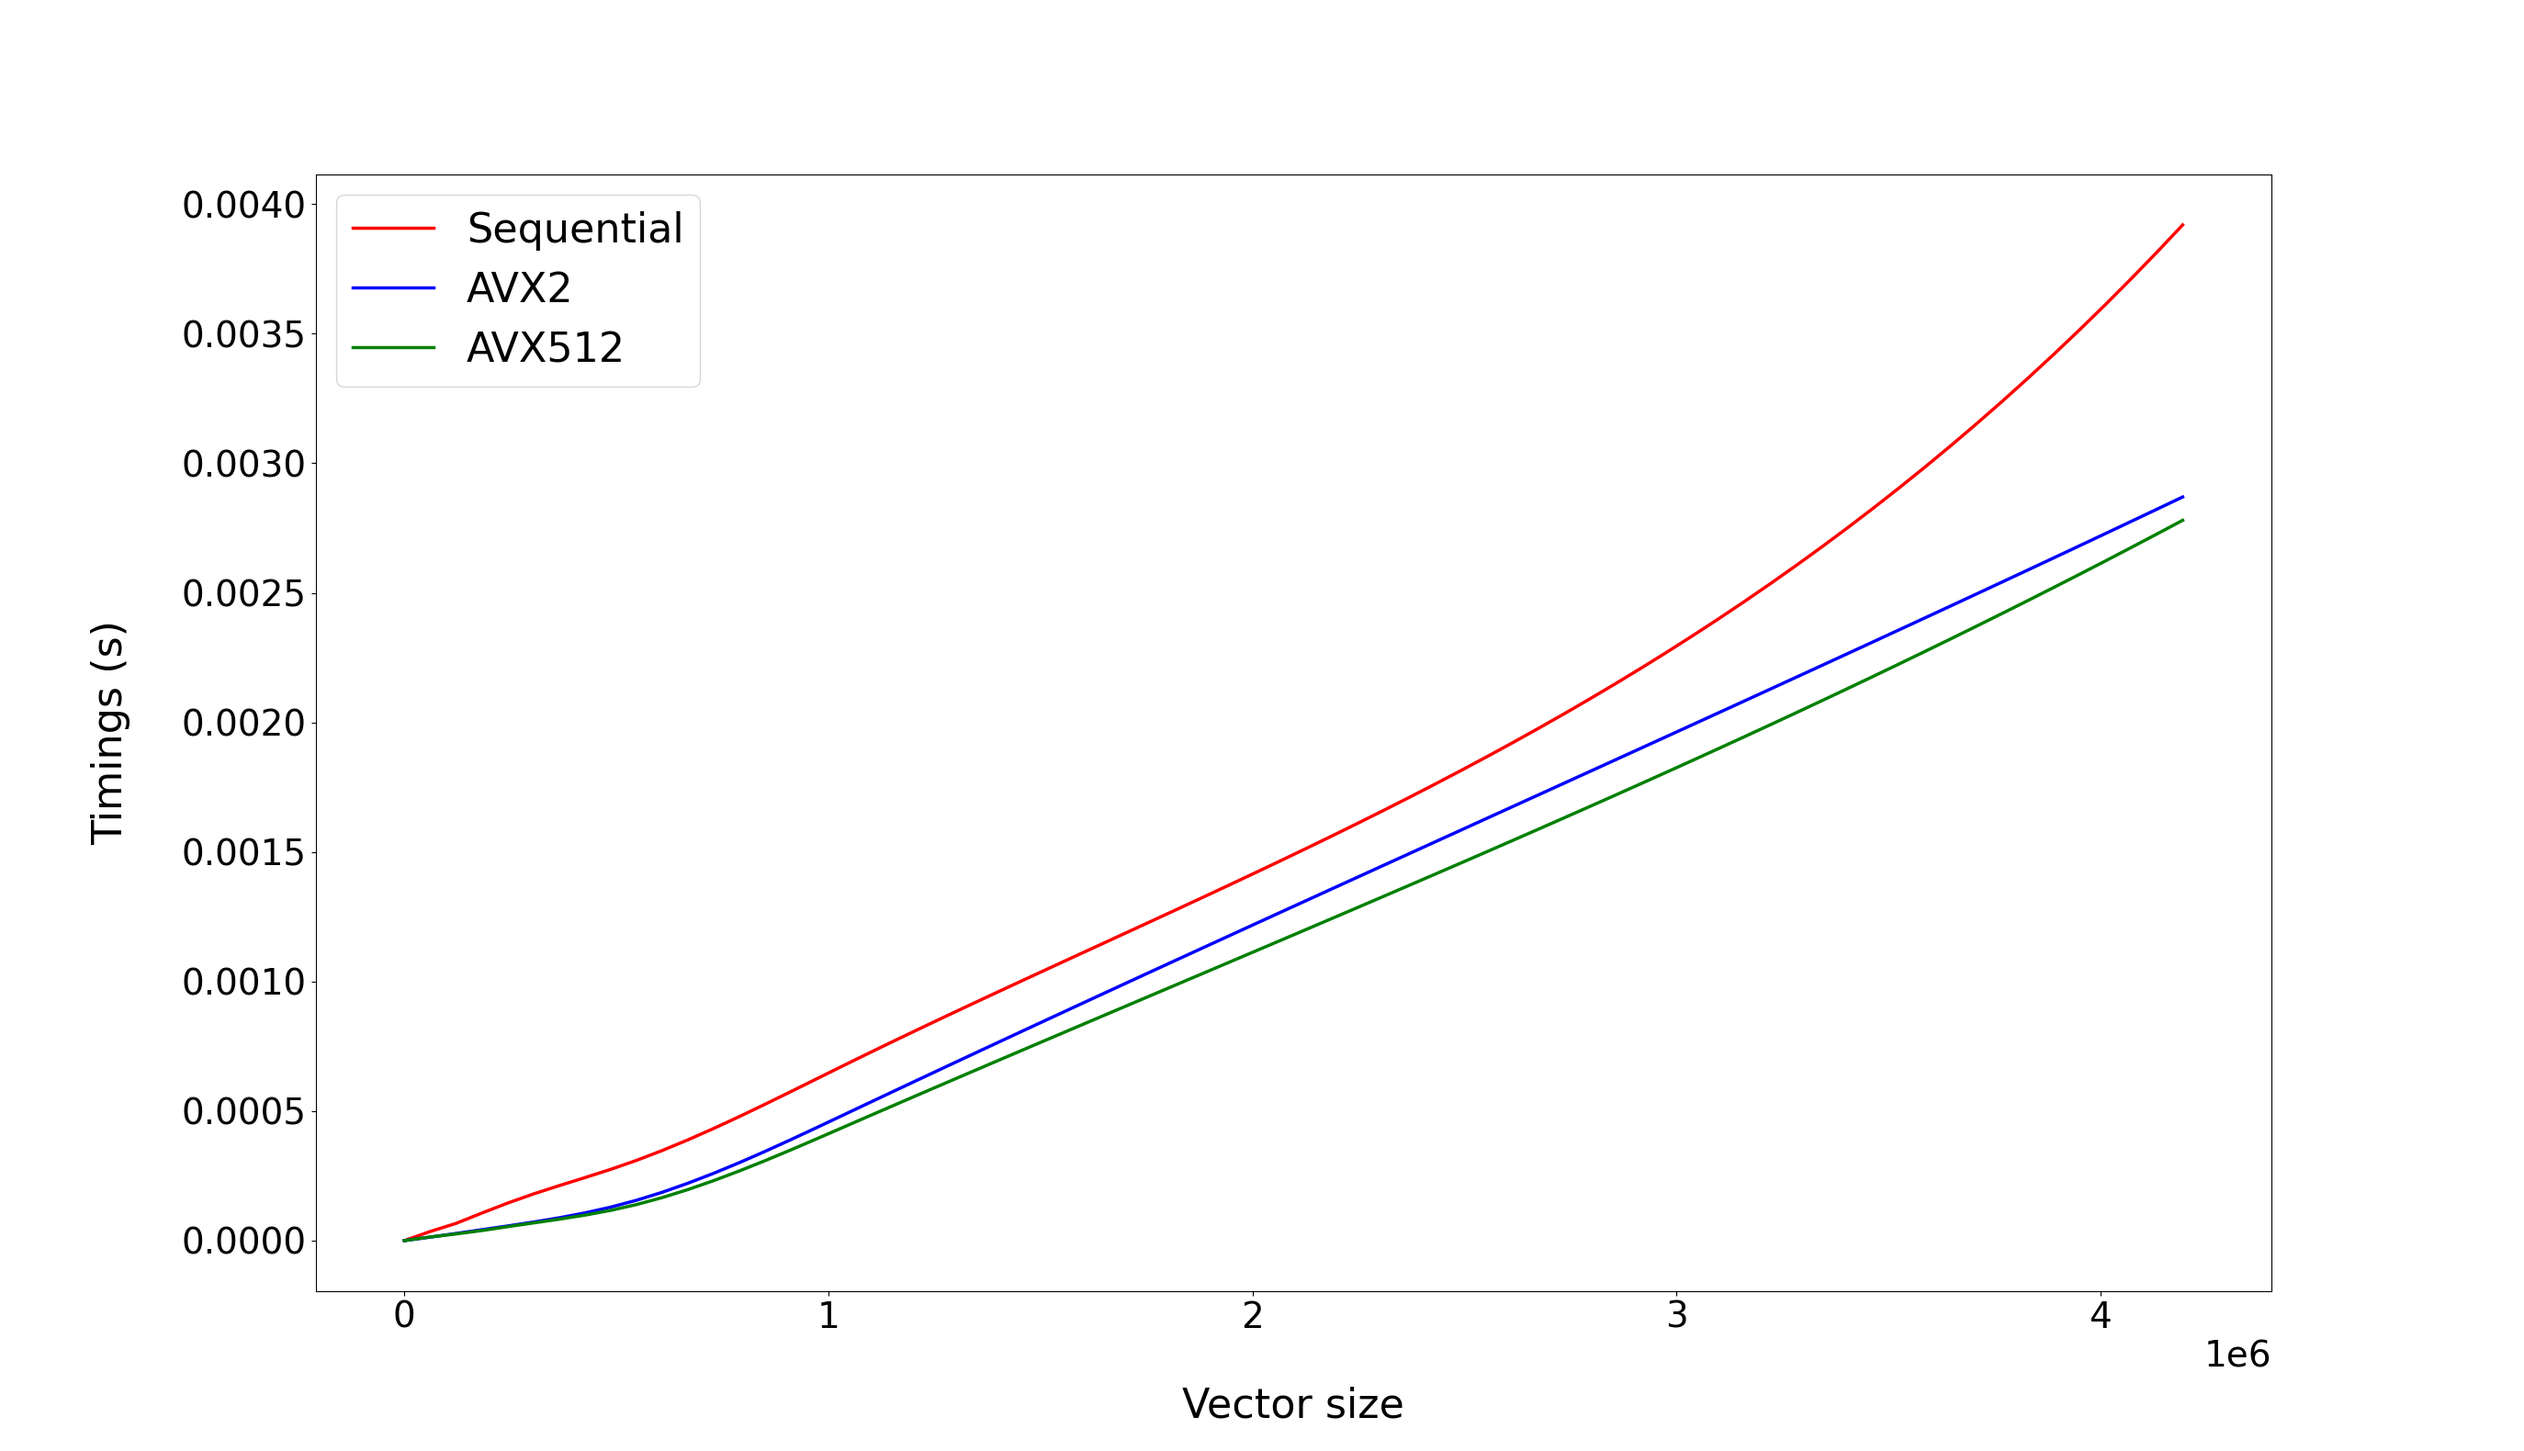
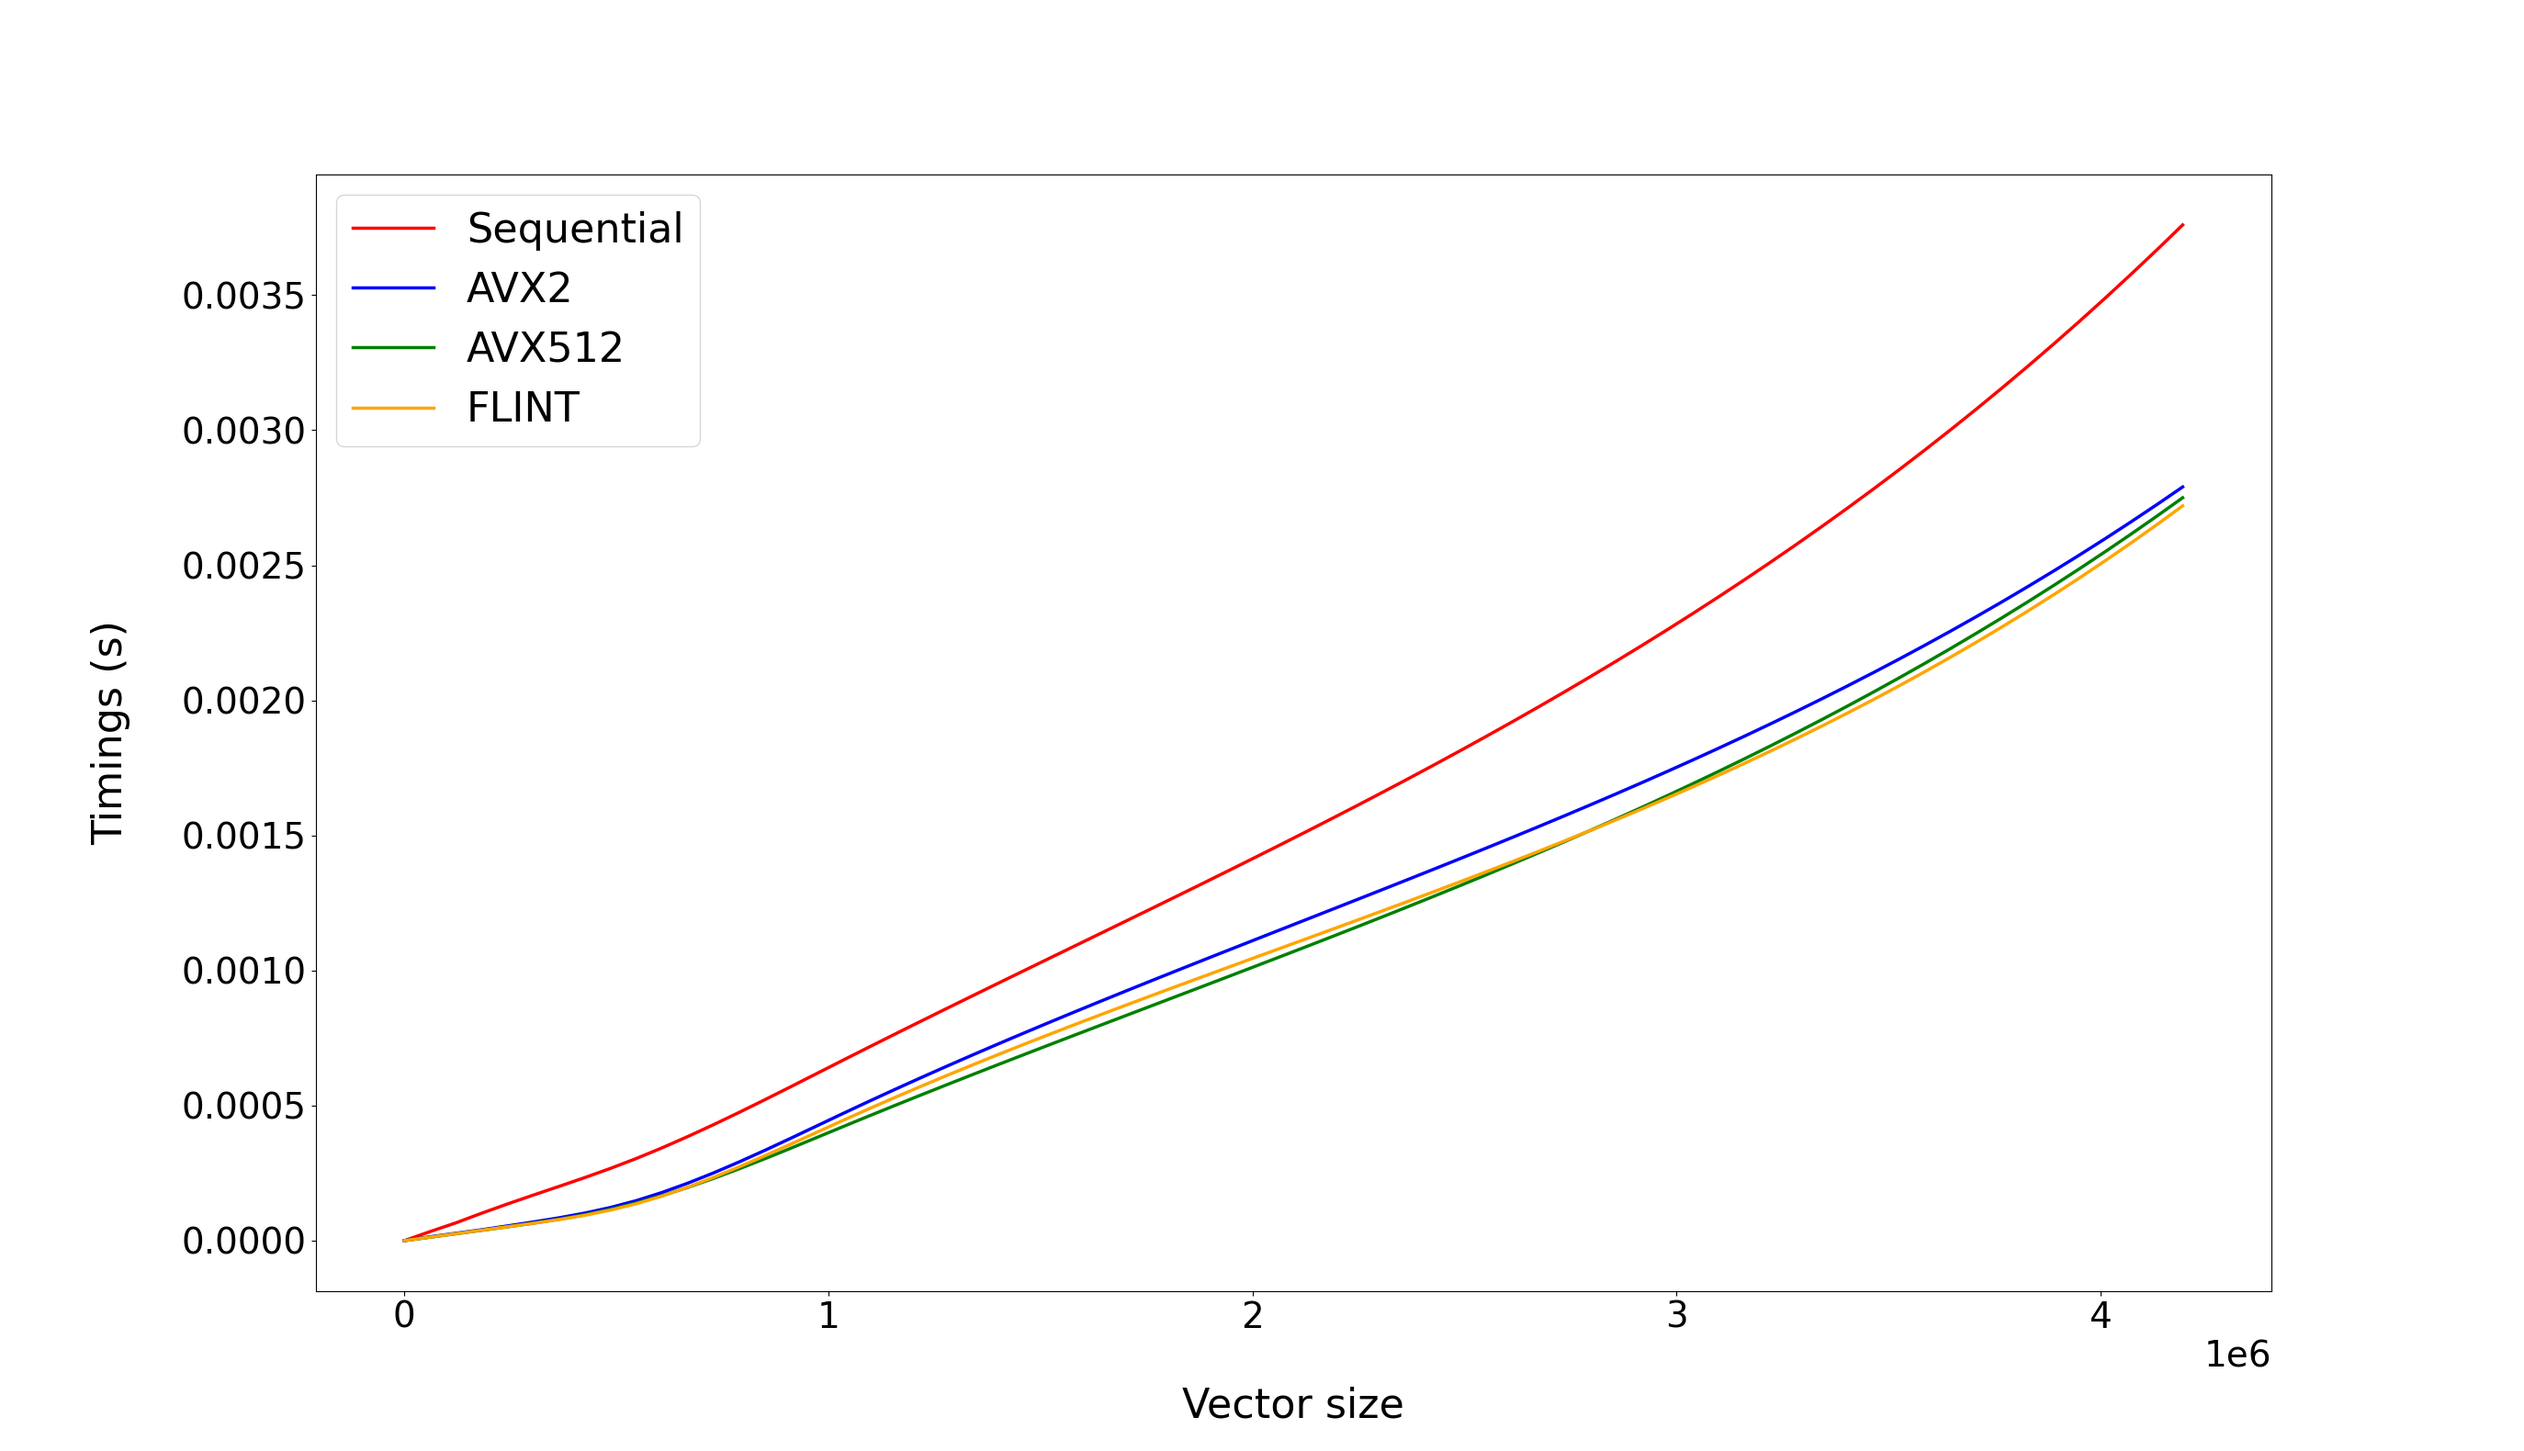
all timings table and plots

diff --git a/docs/report/report.tex b/docs/report/report.tex
@@ -480,14 +480,16 @@ a_i + b_i \mod n \qquad \forall i\in \{1,\dots,N\}.
         \rowcolor{myGray} 
         \multicolumn{7}{|c|}{\textsc{Cascade Lake}} \\
         \hline
-        \rowcolor{myGray} 
-         & 510 & & 2010 & & 32768 & \\
+        \rowcolor{myGray}
+        Ver.\textbackslash N & 510 & & 2010 & & 32768 & \\
         \hline
-        \cellcolor{myGray} Seq. & 4.89e-07 & 1.0x & 1.90e-06 & 1.0x & 3.17e-05 & 1.0x \\
+        \cellcolor{myGray} Seq. & 1.57e-07 & 1.0x & 7.17e-07 & 1.0x & 1.35e-05 & 1.0x \\
         \hline
-        \cellcolor{myGray} AVX2 & 1.26e-07 & 3.9x & 7.05e-07 & 2.7x & 1.43e-05 & 2.2x \\
+        \cellcolor{myGray} AVX2 & 1.25e-07 & 3.7x & 6.77e-07 & 2.7x & 1.31e-05 & 2.1x \\
         \hline
-        \cellcolor{myGray} AVX512 & 8.17e-08 & 6.0x & 6.39e-07 & 3.0x & 1.27e-05 & 2.5x \\
+        \cellcolor{myGray} AVX512 & 9.34e-08 & 5.8x & 6.73e-07 & 3.1x & 1.27e-05 & 2.4x \\
+        \hline
+        \cellcolor{myGray} FLINT & 1.50e-07 & 4.3x & 8.10e-07 & 2.9x & 1.56e-05 & 2.3x \\
         \hline
     \end{tabular}
 
@@ -498,13 +500,15 @@ a_i + b_i \mod n \qquad \forall i\in \{1,\dots,N\}.
         \multicolumn{7}{|c|}{\textsc{Ice Lake}} \\
         \hline
         \rowcolor{myGray}
-        & 510 & & 2010 & & 32768 & \\
+        Ver.\textbackslash N & 510 & & 2010 & & 32768 & \\
         \hline
-        \cellcolor{myGray} Seq. & xxxxxx & 1.0x & xxxxxx & 1.0x & xxxxxx & 1.0x \\
+        \cellcolor{myGray} Seq. & 7.55e-08 & 1.0x & 3.34e-07 & 1.0x & 1.14e-05 & 1.0x \\
         \hline
-        \cellcolor{myGray} AVX2 & xxxxxx & xxxx & xxxxxx & xxxx & xxxxxx & xxxx \\
+        \cellcolor{myGray} AVX2 & 7.74e-08 & 4.1x & 2.93e-07 & 4.5x & 9.59e-06 & 2.5x \\
         \hline
-        \cellcolor{myGray} AVX512 & xxxxxx & xxxx & xxxxxx & xxxx & xxxxxx & xxxx \\
+        \cellcolor{myGray} AVX512 & 1.80e-07 & 4.0x & 4.90e-07 & 4.1x & 1.36e-05 & 1.8x \\
+        \hline
+        \cellcolor{myGray} FLINT & 1.50e-07 & 5.5x & 3.75e-07 & 5.6x & 1.80e-05 & 2.6x \\
         \hline
     \end{tabular}
 
@@ -515,13 +519,15 @@ a_i + b_i \mod n \qquad \forall i\in \{1,\dots,N\}.
         \multicolumn{7}{|c|}{\textsc{Zen 4}} \\
         \hline
         \rowcolor{myGray}
-        & 510 & & 2010 & & 32768 & \\
+        Ver.\textbackslash N & 510 & & 2010 & & 32768 & \\
         \hline
-        \cellcolor{myGray} Seq. & 2.60e-07 & 1.0x & 1.15e-06 & 1.0x & 1.76e-05 & 1.0x \\
+        \cellcolor{myGray} Seq. & 7.17e-08 & 1.0x & 3.66e-07 & 1.0x & 6.16e-06 & 1.0x \\
         \hline
-        \cellcolor{myGray} AVX2 & 6.04e-08 & 4.3x & 3.42e-07 & 3.4x & 6.71e-06 & 2.6x \\
+        \cellcolor{myGray} AVX2 & 5.27e-08 & 4.7x & 3.48e-07 & 3.4x & 6.55e-06 & 2.7x \\
         \hline
-        \cellcolor{myGray} AVX512 & 6.04e-08 & 4.3x & 3.63e-07 & 3.2x & 6.25e-06 & 2.8x \\
+        \cellcolor{myGray} AVX512 & 5.91e-08 & 4.3x & 3.58e-07 & 3.2x & 5.97e-06 & 3.0x \\
+        \hline
+        \cellcolor{myGray} FLINT & 5.55e-08 & 4.9x & 3.43e-07 & 3.1x & 6.61e-06 & 3.0x \\
         \hline
     \end{tabular}
     \caption{Timings in seconds and ratios of the modular sum with a 60-bit modulus.}
@@ -564,8 +570,81 @@ in Section \ref{mulsplit}.
 
 We only show the results obtained with the scalar-vector product that was implemented using Shoup algorithm.
 
-\textcolor{blue}{ timings +comments}
+\begin{table}[h!]
+    \centering
+    
+    % Proc 1: ppti
+    \begin{tabular}{|r|*{3}{c c|}}
+        \hline
+        \rowcolor{myGray} 
+        \multicolumn{7}{|c|}{\textsc{Cascade Lake}} \\
 
+        \hline
+        \rowcolor{myGray}
+        Ver.\textbackslash N & 510 & & 2010 & & 32768 & \\
+        \hline
+        \cellcolor{myGray} Seq. & 5.92e-07 & 1.0x & 2.25e-06 & 1.0x & 5.58e-05 & 1.0x \\
+        \hline
+        \cellcolor{myGray} AVX2 & 7.26e-07 & 0.8x & 2.78e-06 & 0.8x & 4.88e-05 & 0.9x \\
+        \hline
+        \cellcolor{myGray} AVX512 & 3.52e-07 & 1.7x & 1.23e-06 & 1.8x & 2.36e-05 & 1.4x \\
+        \hline
+        \cellcolor{myGray} FLINT & 7.38e-07 & 1.0x & 2.82e-06 & 1.0x & 4.77e-05 & 0.9x \\
+        \hline
+    \end{tabular}
+
+    % Proc 2: groebner
+    \begin{tabular}{|r|*{3}{c c|}}
+        \hline
+        \rowcolor{myGray} 
+        \multicolumn{7}{|c|}{\textsc{Ice Lake}} \\
+
+        \hline
+        \rowcolor{myGray}
+        Ver.\textbackslash N & 510 & & 2010 & & 32768 & \\
+        \hline
+        \cellcolor{myGray} Seq. & 4.96e-07 & 1.0x & 1.92e-06 & 1.0x & 3.58e-05 & 1.0x \\
+        \hline
+        \cellcolor{myGray} AVX2 & 4.38e-07 & 1.1x & 1.70e-06 & 1.1x & 3.27e-05 & 0.9x \\
+        \hline
+        \cellcolor{myGray} AVX512 & 1.96e-07 & 2.5x & 7.44e-07 & 2.5x & 1.55e-05 & 2.1x \\
+        \hline
+        \cellcolor{myGray} FLINT & 4.50e-07 & 1.0x & 1.76e-06 & 1.0x & 3.36e-05 & 0.9x \\
+        \hline
+    \end{tabular}
+
+    % Proc 3: argiope
+    \begin{tabular}{|r|*{3}{c c|}}
+        \hline
+        \rowcolor{myGray}
+        \multicolumn{7}{|c|}{\textsc{Zen 4}} \\
+
+        \hline
+        \rowcolor{myGray}
+        Ver.\textbackslash N & 510 & & 2010 & & 32768 & \\
+        \hline
+        \cellcolor{myGray} Seq. & 3.35e-07 & 1.0x & 1.29e-06 & 1.0x & 2.17e-05 & 1.0x \\
+        \hline
+        \cellcolor{myGray} AVX2 & 2.35e-07 & 1.4x & 9.19e-07 & 1.4x & 1.56e-05 & 1.3x \\
+        \hline
+        \cellcolor{myGray} AVX512 & 1.16e-07 & 2.9x & 4.55e-07 & 2.8x & 7.53e-06 & 2.8x \\
+        \hline
+        \cellcolor{myGray} FLINT & 2.40e-07 & 1.0x & 9.29e-07 & 1.0x & 1.59e-05 & 1.0x \\
+        \hline
+    \end{tabular}
+    \caption{Timings in seconds and ratios of the modular scalar vector prodcut with a 60-bit modulus.}
+\end{table}
+
+\begin{figure}[h!]
+    \begin{center}
+        \includegraphics[width=0.8\textwidth]{scalar-vector-mod_argiope.png}
+    \end{center}
+    \caption{Timings in seconds of the modular scalar vector prodcut with a 60-bit modulus on a Zen 4 processor.}
+\end{figure}
+
+\textcolor{blue}{comments}
+
+\newpage
 \subsection{Dot product}
 
 Given two vectors $a,b$ of $N$ coefficients in $\mathbb{Z}/n\mathbb{Z}$, we compute
@@ -615,6 +694,78 @@ overflow.
     previous value.
 \end{remark}
 
+\begin{table}[h!]
+    \centering
+    
+    % Proc 1: ppti
+    \begin{tabular}{|r|*{3}{c c|}}
+        \hline
+        \rowcolor{myGray} 
+        \multicolumn{7}{|c|}{\textsc{Cascade Lake}} \\
+
+        \hline
+        \rowcolor{myGray}
+        Ver.\textbackslash N & 510 & & 2010 & & 32768 & \\
+        \hline
+        \cellcolor{myGray} Seq. & 2.84e-07 & 1.0x & 1.11e-06 & 1.0x & 1.92e-05 & 1.0x \\
+        \hline
+        \cellcolor{myGray} AVX2 & 2.97e-07 & 1.0x & 1.12e-06 & 1.0x & 1.94e-05 & 1.0x \\
+        \hline
+        \cellcolor{myGray} AVX512 & 2.16e-07 & 1.3x & 7.74e-07 & 1.4x & 1.44e-05 & 1.3x \\
+        \hline
+        \cellcolor{myGray} FLINT & 3.18e-07 & 0.9x & 1.18e-06 & 0.9x & 1.98e-05 & 1.0x \\
+        \hline
+    \end{tabular}
+
+    % Proc 2: groebner
+    \begin{tabular}{|r|*{3}{c c|}}
+        \hline
+        \rowcolor{myGray} 
+        \multicolumn{7}{|c|}{\textsc{Ice Lake}} \\
+
+        \hline
+        \rowcolor{myGray}
+        Ver.\textbackslash N & 510 & & 2010 & & 32768 & \\
+        \hline
+        \cellcolor{myGray} Seq. & 4.20e-07 & 1.0x & 1.54e-06 & 1.0x & 2.50e-05 & 1.0x \\
+        \hline
+        \cellcolor{myGray} AVX2 & 1.72e-07 & 2.3x & 6.45e-07 & 2.4x & 1.20e-05 & 2.1x \\
+        \hline
+        \cellcolor{myGray} AVX512 & 1.67e-07 & 2.4x & 6.13e-07 & 2.5x & 1.30e-05 & 1.9x \\
+        \hline
+        \cellcolor{myGray} FLINT & 2.87e-07 & 1.4x & 9.58e-07 & 1.6x & 1.77e-05 & 1.4x \\
+        \hline
+    \end{tabular}
+
+    % Proc 3: argiope
+    \begin{tabular}{|r|*{3}{c c|}}
+        \hline
+        \rowcolor{myGray}
+        \multicolumn{7}{|c|}{\textsc{Zen 4}} \\
+
+        \hline
+        \rowcolor{myGray}
+        Ver.\textbackslash N & 510 & & 2010 & & 32768 & \\
+        \hline
+        \cellcolor{myGray} Seq. & 2.70e-07 & 1.0x & 1.20e-06 & 1.0x & 1.68e-05 & 1.0x \\
+        \hline
+        \cellcolor{myGray} AVX2 & 1.20e-07 & 2.6x & 3.87e-07 & 2.6x & 5.85e-06 & 2.9x \\
+        \hline
+        \cellcolor{myGray} AVX512 & 1.10e-07 & 2.7x & 3.78e-07 & 2.7x & 5.46e-06 & 3.1x \\
+        \hline
+        \cellcolor{myGray} FLINT & 2.70e-07 & 1.3x & 8.48e-07 & 1.2x & 1.34e-05 & 1.3x \\
+        \hline
+    \end{tabular}
+    \caption{Timings in seconds and ratios of the modular dot prodcut with a 60-bit modulus.}
+\end{table}
+
+\begin{figure}[h!]
+    \begin{center}
+        \includegraphics[width=0.8\textwidth]{dot-prod-mod_argiope.png}
+    \end{center}
+    \caption{Timings in seconds of the modular dot prodcut with a 60-bit modulus on a Zen 4 processor.}
+\end{figure}
+
 \textcolor{blue}{
     \begin{itemize}
         \item timings + comments
@@ -663,10 +814,78 @@ modular reductions compared to a basic implementation if one is able to restrict
     \end{algorithmic}
 \end{algorithm}
 
+\begin{table}[h!]
+    \centering
+    
+    % Proc 1: ppti
+    \begin{tabular}{|r|*{3}{c c|}}
+        \hline
+        \rowcolor{myGray} 
+        \multicolumn{7}{|c|}{\textsc{Cascade Lake}} \\
+
+        \hline
+        \rowcolor{myGray}
+        Ver.\textbackslash N & 510 & & 2010 & & 32768 & \\
+        \hline
+        \cellcolor{myGray} Seq. & 8.13e-07 & 1.0x & 3.18e-06 & 1.0x & 5.28e-05 & 1.0x \\
+        \hline
+        \cellcolor{myGray} AVX2 & 7.46e-07 & 1.1x & 2.88e-06 & 1.1x & 4.71e-05 & 1.1x \\
+        \hline
+        \cellcolor{myGray} AVX512 & 3.87e-07 & 2.1x & 1.56e-06 & 2.0x & 3.17e-05 & 1.7x \\
+        \hline
+    \end{tabular}
+
+    % Proc 2: groebner
+    \begin{tabular}{|r|*{3}{c c|}}
+        \hline
+        \rowcolor{myGray} 
+        \multicolumn{7}{|c|}{\textsc{Ice Lake}} \\
+
+        \hline
+        \rowcolor{myGray}
+        Ver.\textbackslash N & 510 & & 2010 & & 32768 & \\
+        \hline
+        \cellcolor{myGray} Seq. & 7.37e-07 & 1.0x & 2.92e-06 & 1.0x & 4.77e-05 & 1.0x \\
+        \hline
+        \cellcolor{myGray} AVX2 & 5.25e-07 & 1.4x & 2.40e-06 & 1.4x & 3.38e-05 & 1.4x \\
+        \hline
+        \cellcolor{myGray} AVX512 & 2.24e-07 & 3.3x & 9.37e-07 & 3.1x & 1.69e-05 & 2.8x \\
+        \hline
+    \end{tabular}
+
+    % Proc 3: argiope
+    \begin{tabular}{|r|*{3}{c c|}}
+        \hline
+        \rowcolor{myGray}
+        \multicolumn{7}{|c|}{\textsc{Zen 4}} \\
+
+        \hline
+        \rowcolor{myGray}
+        Ver.\textbackslash N & 510 & & 2010 & & 32768 & \\
+        \hline
+        \cellcolor{myGray} Seq. & 5.30e-07 & 1.0x & 2.30e-06 & 1.0x & 3.39e-05 & 1.0x \\
+        \hline
+        \cellcolor{myGray} AVX2 & 2.87e-07 & 1.8x & 1.12e-06 & 1.8x & 1.79e-05 & 1.9x \\
+        \hline
+        \cellcolor{myGray} AVX512 & 1.44e-07 & 3.5x & 5.80e-07 & 3.5x & 9.12e-06 & 3.7x \\
+        \hline
+    \end{tabular}
+    \caption{Timings in seconds and ratios of the Harvey lazy butterfly FFT with a 60-bit modulus.}
+\end{table}
+
+\begin{figure}[h!]
+    \begin{center}
+        \includegraphics[width=0.8\textwidth]{lazy-butterfly_argiope.png}
+    \end{center}
+    \caption{Timings in seconds of the Harvey lazy butterfly FFT with a 60-bit modulus on a Zen 4 processor.}
+\end{figure}
+
+\newpage
 \textcolor{blue}{
     \begin{itemize}
         \item explain this is our version, and one can find a similar one in hexl
-        \item timings + comments
+        \item  comments
+        \item subsection with Vincent's results
     \end{itemize}
 }
 
